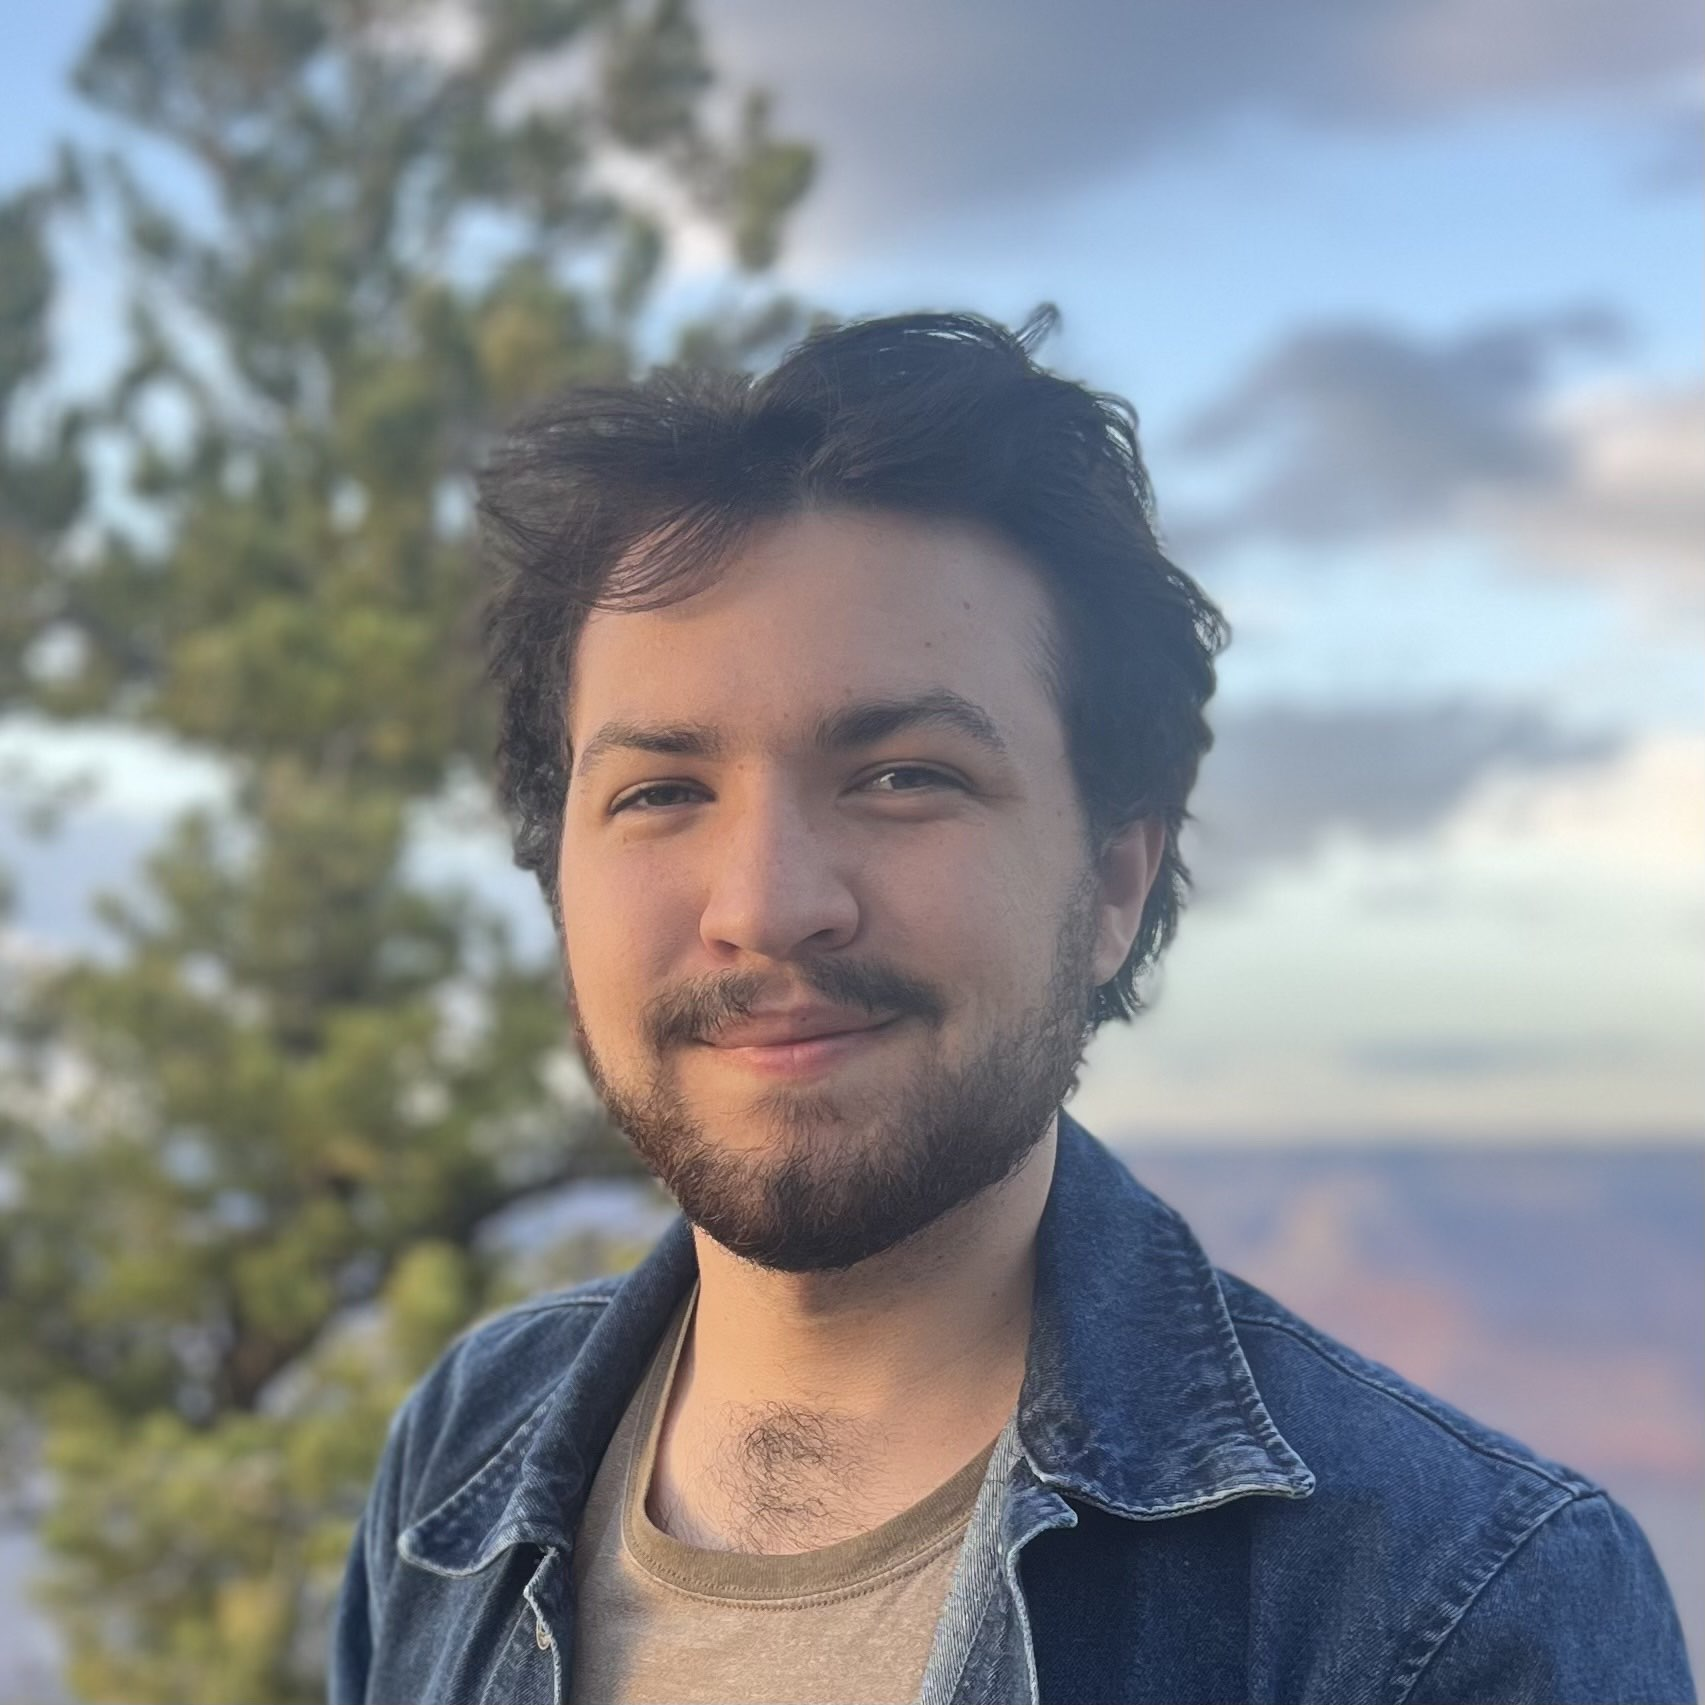
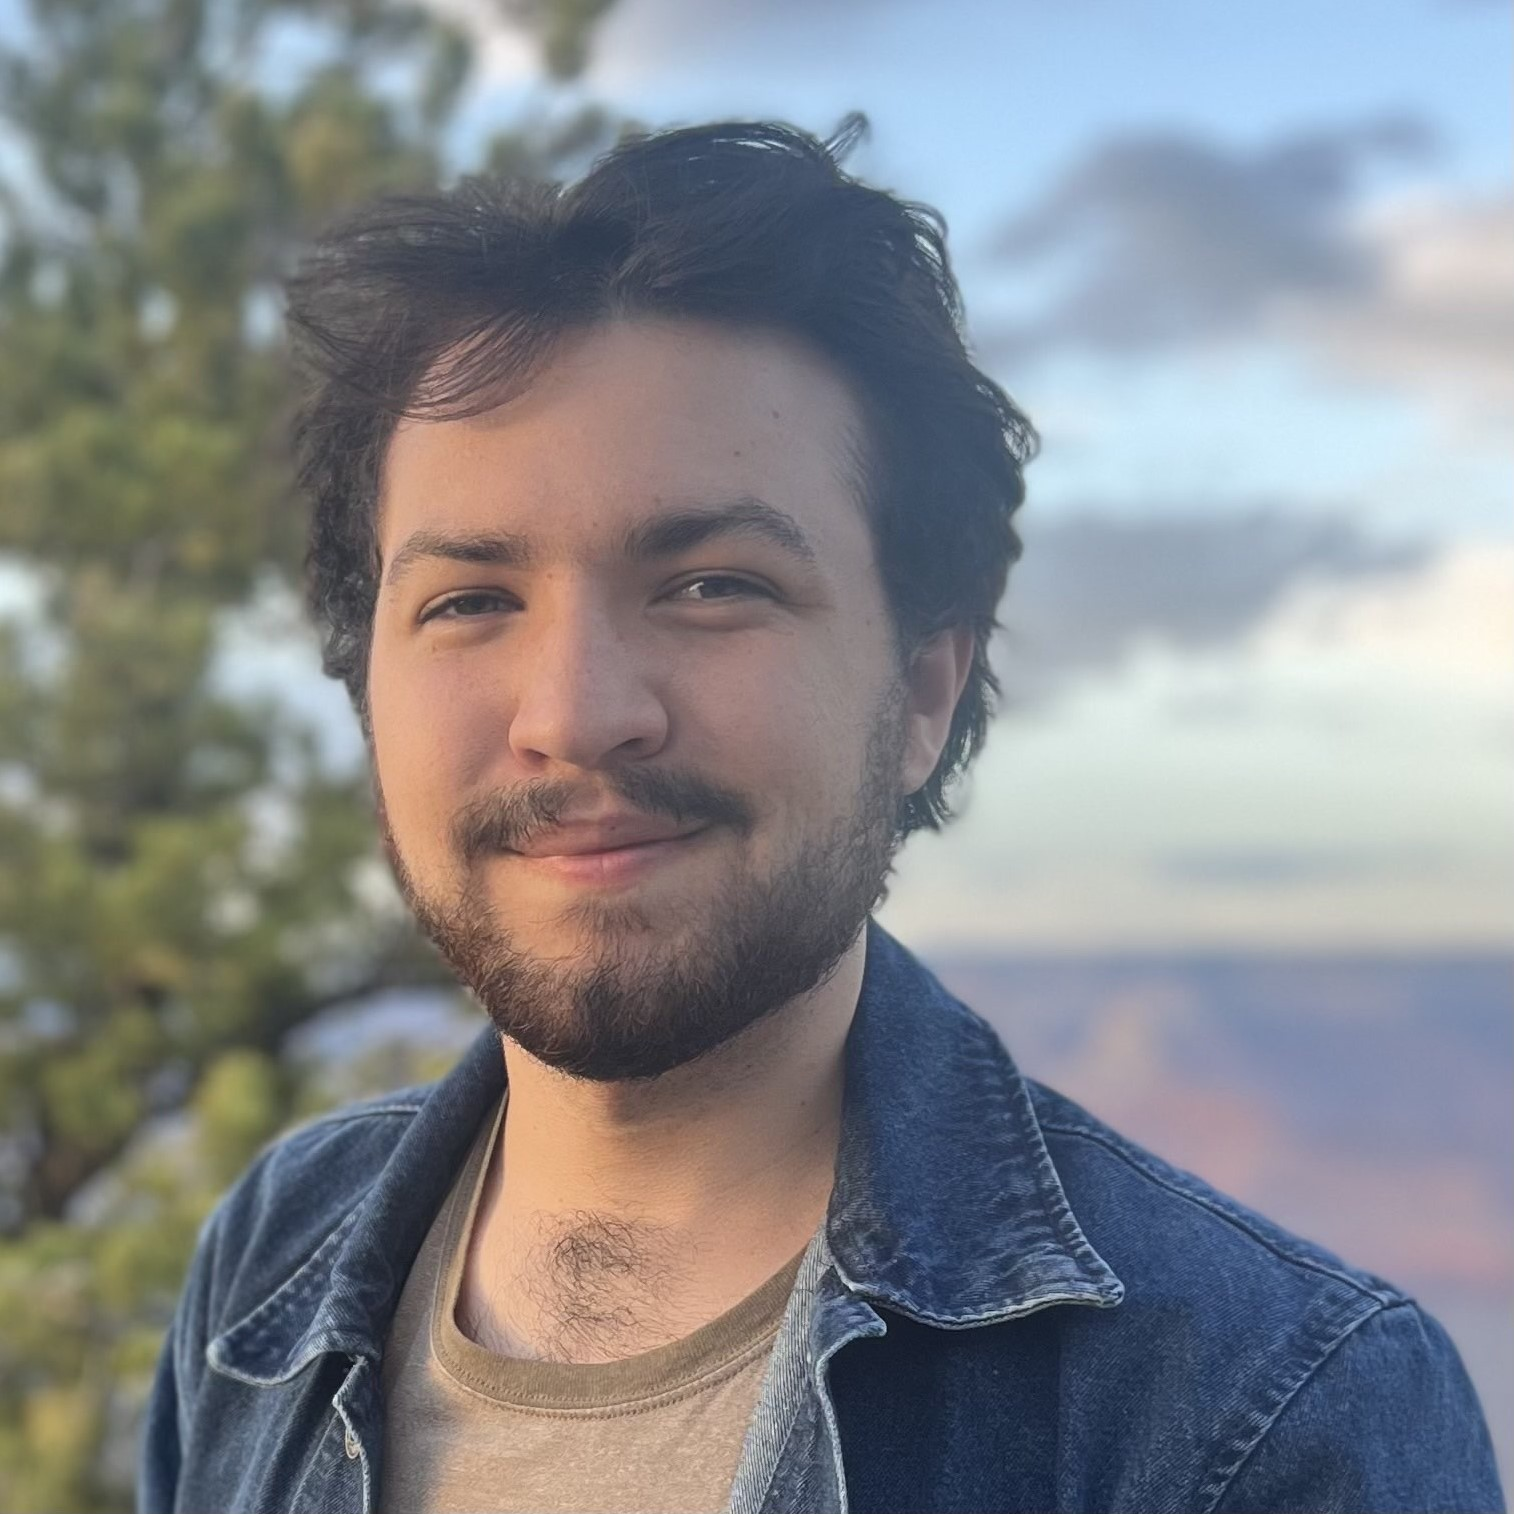
Update Timeline

diff --git a/pages/index.js b/pages/index.js
@@ -1,4 +1,4 @@
-import {Container, Box, Heading, Image, useColorModeValue, Button, Badge} from "@chakra-ui/react";
+import {Container, Box, Heading, Image, useColorModeValue, Button, Badge, Text} from "@chakra-ui/react";
 
 import Section from "../components/section";
 import Paragraph from "../components/paragraph";
@@ -59,7 +59,7 @@ const Page = () => {
         </Section>
         <Section delay = {0.3} fade = {10}>
             <Heading as="h3" variant = "section-title">
-                Time-Line
+                Experience &amp; Education
             </Heading>
             <BioSection>
                 <BioYear>2003</BioYear>
@@ -69,38 +69,21 @@ const Page = () => {
                 <BioYear>2021</BioYear>
                 Graduated from Claremont High School
             </BioSection>
+
+            <Text fontWeight="bold" fontStyle="italic" mt={4} mb={2} fontSize="lg">Colorado College</Text>
             <BioSection>
                 <BioYear>2025</BioYear>
                 Graduation from Colorado College with a BA in Computer Science, an extra major in Classics and a minor in Linguistics
             </BioSection>
-            <BioSection>
-                <BioYear>2025</BioYear>
-                Software Engineer Consultant at FDM
-            </BioSection>
-            <BioSection>
-                <BioYear>2026</BioYear>
-                ...hopefully working with you!
-            </BioSection>
-        </Section>
-        <Section delay={0.45} fade = {-10}>
-            <Heading as = "h3" variant="section-title">
-                Computer Science Coursework and Experience
-            </Heading>
             <Box ml={70} borderRadius = "lg" bg ={useColorModeValue('teal.200','cyan.700')} w='29%' p ={3} mb = {5} mt = {5} align = "center">
                 Software Design
-
                 <Badge marginX={1} colorScheme = 'red'>Java</Badge>
-
                 <Badge variant = 'subtle' colorScheme = 'green'>Git</Badge>
-
                 <Badge colorScheme = 'gray'> DEV STANDARDS</Badge>
-
             </Box>
             <Box  ml={180} borderRadius = "lg" bg ={useColorModeValue('red.200','pink.900')} w = '40%' p ={3} mb = {5} mt = {5} align = "center">
                 Computer Organization
-
                 <Badge marginX={1} colorScheme = 'orange'>C</Badge>
-
                 <Badge marginX={1} variant = 'subtle' colorScheme = 'green'>Git</Badge>
                 <Badge colorScheme = 'yellow'> Memory Management</Badge>
             </Box>
@@ -109,26 +92,38 @@ const Page = () => {
                 <Badge marginX={1} colorScheme = 'purple'>Python</Badge>
                 <Badge marginX={1} colorScheme = 'cyan'>Database Management</Badge>
                 <Badge colorScheme = 'blue'> Algorithmic Efficiency</Badge>
+            </Box>
 
-            </Box>
+            <Text fontWeight="bold" fontStyle="italic" mt={4} mb={2} fontSize="lg">FDM Group</Text>
+            <BioSection>
+                <BioYear>2025</BioYear>
+                Software Engineer Consultant at FDM
+            </BioSection>
             <Box ml={55} borderRadius="lg" bg={useColorModeValue('purple.200','purple.900')} w='35%' p={3} mb={5} mt={5} align="center">
-                FDM Java Sprint<br/>
-                <Badge marginX={1} colorScheme='green'>Spring Boot</Badge>
-                <Badge marginX={1} colorScheme='red'>TDD</Badge>
+                Java OOP<br/>
                 <Badge marginX={1} colorScheme='blue'>REST Development</Badge>
+                <Badge marginX={1} colorScheme='red'>TDD</Badge>
+                <Badge marginX={1} colorScheme='green'>Spring Boot</Badge>
+                
+                
             </Box>
-            <Box ml={160} borderRadius="lg" bg={useColorModeValue('orange.200','orange.900')} w='45%' p={3} mb={5} mt={5} align="center">
-                FDM Cloud Computing Sprint<br/>
+            <Box ml={160} borderRadius="lg" bg={useColorModeValue('orange.200','orange.900')} w='40%' p={3} mb={5} mt={5} align="center">
+                Cloud Computing<br/>
                 <Badge marginX={1} colorScheme='blue'>Docker</Badge>
-                <Badge marginX={1} colorScheme='green'>GKE</Badge>
+                <Badge marginX={1} colorScheme='green'>Kubernetes</Badge>
                 <Badge marginX={1} colorScheme='yellow'>GCP</Badge>
             </Box>
             <Box ml={55} borderRadius="lg" bg={useColorModeValue('blue.200','blue.900')} w='47%' p={3} mb={5} mt={5} align="center">
-                FDM Pod Work
+                Full Stack Pod
                 <Badge marginX={1} colorScheme='orange'>Scrum Practices</Badge>
                 <Badge marginX={1} colorScheme='cyan'>React.js</Badge>
                 <Badge marginX={1} colorScheme='green'>Node.js</Badge>
             </Box>
+
+            <BioSection>
+                <BioYear>2026</BioYear>
+                ...hopefully working with you!
+            </BioSection>
         </Section>
         <Section delay={0.60} fade = {10}>
             <Heading as = "h3" variant="section-title">
